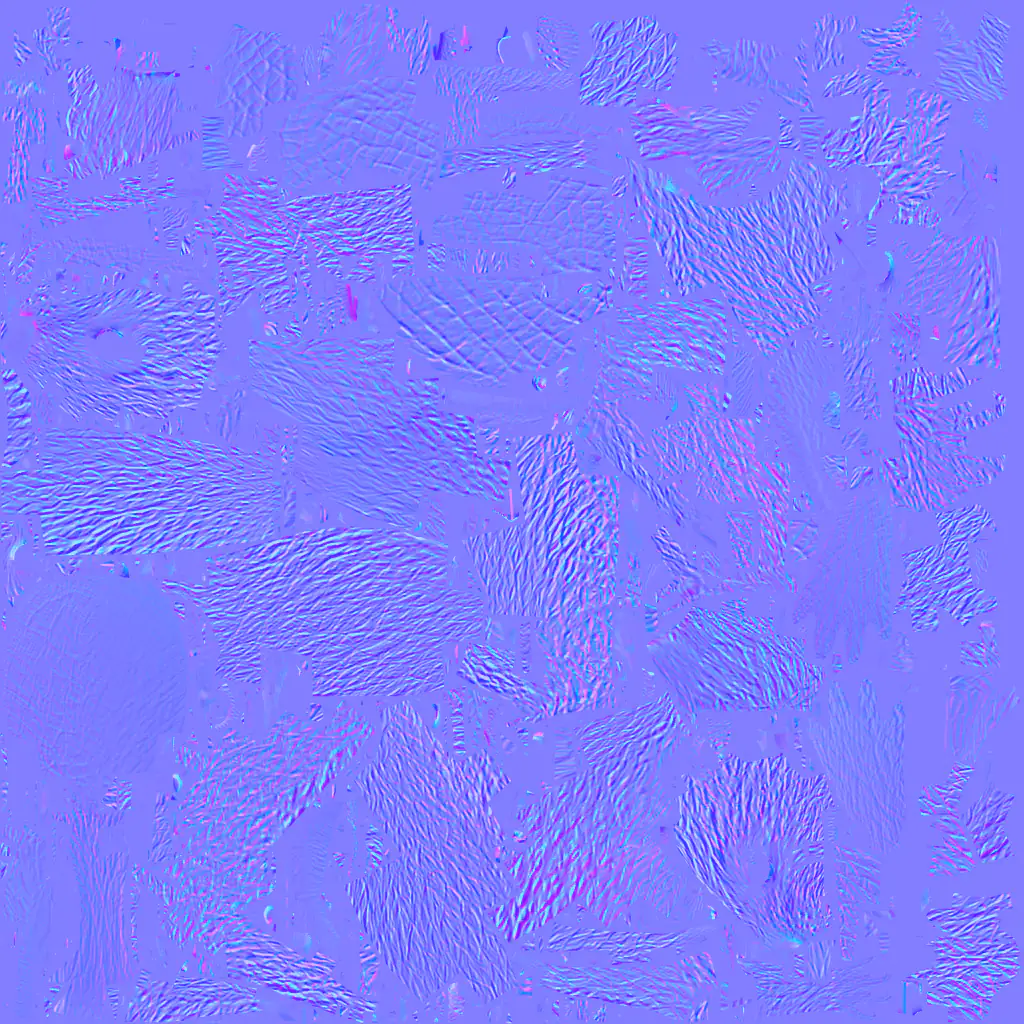
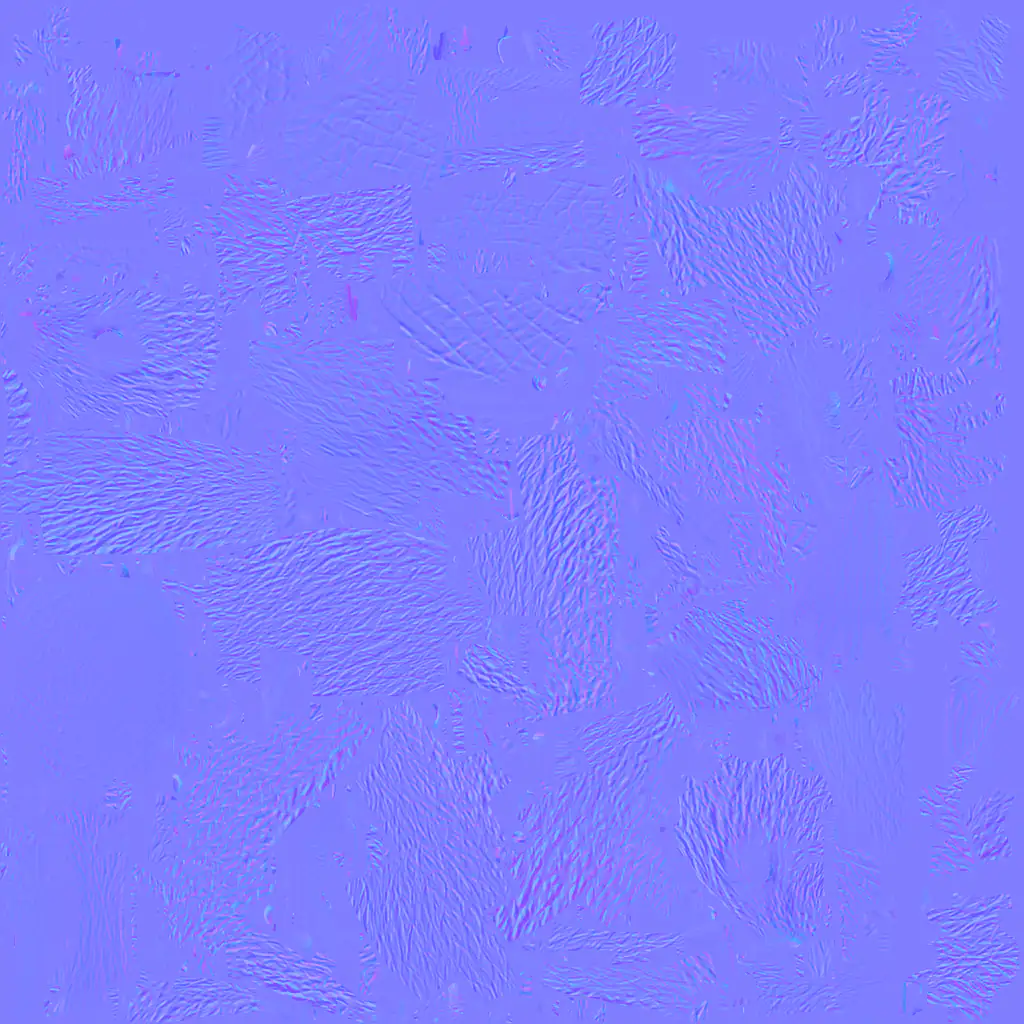
fix(tools): make the fur of the beaver softer
The beaver maps showed the full fine detail of the source, which read as
carved grooves in the hall light. The normal map now keeps 0.5 of the
source tilts (TILT_SHARE), and the color map keeps 0.7 of the detail
finer than a blur of 2 texels (DETAIL_SHARE). The colors stay.

diff --git a/tools/beaver-maps.py b/tools/beaver-maps.py
@@ -12,7 +12,7 @@ import sys
 import tempfile
 
 import numpy as np
-from PIL import Image
+from PIL import Image, ImageFilter
 
 SOURCE = 'assets/models/beaver/tripo-p2/beaver.fbm/beaver_basecolor.jpg'
 NORMAL_SOURCE = 'assets/models/beaver/tripo-p2/beaver.fbm/beaver_normal.jpg'
@@ -25,20 +25,31 @@ QUALITY = 60
 #: (`NORMAL_MAP_GAIN` of src/scene/fur.ts). A larger tilt is a baked edge of the source mesh.
 NORMAL_LIMIT = 0.2
 NORMAL_GAIN = 4
+#: The share of the fine detail of the source that the maps keep: the tilts of the normal map, and
+#: the color detail finer than DETAIL_RADIUS texels at SIZE. The full detail read as carved grooves
+#: in the hall light, so the fur is softer, as on the fox and the rabbit.
+TILT_SHARE = 0.5
+DETAIL_SHARE = 0.7
+DETAIL_RADIUS = 2.0
 
 
 def color_map():
-    """Writes the color map: the source scaled to SIZE (Lanczos), WebP quality QUALITY, method 6."""
+    """Writes the color map: the source scaled to SIZE (Lanczos), with DETAIL_SHARE of its detail
+    finer than DETAIL_RADIUS, WebP quality QUALITY, method 6."""
     image = Image.open(SOURCE).convert('RGB').resize((SIZE, SIZE), Image.LANCZOS)
+    sharp = np.asarray(image).astype(np.float64)
+    soft = np.asarray(image.filter(ImageFilter.GaussianBlur(DETAIL_RADIUS))).astype(np.float64)
+    mixed = soft + DETAIL_SHARE * (sharp - soft)
+    image = Image.fromarray(np.clip(np.round(mixed), 0, 255).astype(np.uint8))
     image.save(COLOR_OUT, 'WEBP', quality=QUALITY, method=6)
     print(f'{COLOR_OUT}: {SIZE} x {SIZE}, {os.path.getsize(COLOR_OUT)} bytes')
 
 
 def normal_map():
     """Writes the normal map of the fur: each x, y tilt of the source limited to the length
-    NORMAL_LIMIT, a box scale to NORMAL_SIZE, then the tilts times NORMAL_GAIN in red and green,
-    255 in blue (the shader does not read it), and cwebp -q 60 -sharp_yuv -m 6. The limit comes
-    before the gain, so that no stored value clips."""
+    NORMAL_LIMIT, a box scale to NORMAL_SIZE, then the tilts times TILT_SHARE and NORMAL_GAIN in
+    red and green, 255 in blue (the shader does not read it), and cwebp -q 60 -sharp_yuv -m 6. The
+    limit comes before the gain, so that no stored value clips."""
     a = np.asarray(Image.open(NORMAL_SOURCE).convert('RGB')).astype(np.float64) / 255 * 2 - 1
     t = a[..., :2].copy()
     length = np.linalg.norm(t, axis=-1)
@@ -46,7 +57,7 @@ def normal_map():
     t[over] *= (NORMAL_LIMIT / length[over])[:, None]
     k = t.shape[0] // NORMAL_SIZE
     small = t.reshape(NORMAL_SIZE, k, NORMAL_SIZE, k, 2).mean(axis=(1, 3))
-    v = np.clip(small * NORMAL_GAIN, -1, 1)
+    v = np.clip(small * TILT_SHARE * NORMAL_GAIN, -1, 1)
     rgb = np.zeros((NORMAL_SIZE, NORMAL_SIZE, 3), np.uint8)
     rgb[..., :2] = np.round((v + 1) / 2 * 255).astype(np.uint8)
     rgb[..., 2] = 255

diff --git a/assets/models/beaver/README.md b/assets/models/beaver/README.md
@@ -225,9 +225,11 @@ no cut, and no view shows it. The long joint passes beside the head, clear of th
 boot stays below and behind the music desk.
 
 **Maps** (`tools/beaver-maps.py`). The tool scales the color map of the source to 2048 pixels
-(Lanczos) and writes WebP quality 60, method 6 (Pillow 13.0.0). No texel changes its color. It
-writes `beaver-normal.webp` from the normal map of the FBX: each x, y tilt limited to 0.2 (5.85 %
-of the texels), a box scale to 1024 pixels, the tilts times 4 in red and green, 255 in blue, and
+(Lanczos), keeps 0.7 of its detail finer than a blur of 2 texels (`DETAIL_SHARE`), and writes
+WebP quality 60, method 6 (Pillow 13.0.0). Reason: the full detail read as carved grooves in the
+hall light. The colors stay. It writes `beaver-normal.webp` from the normal map of the FBX: each
+x, y tilt limited to 0.2 (5.85 % of the texels), a box scale to 1024 pixels, the tilts times 0.5
+(`TILT_SHARE`) and 4 in red and green, 255 in blue, and
 `cwebp -q 60 -sharp_yuv -m 6` (libwebp 1.5.0).
 
 **Differences from the source.** The app light is warm and comes from above, so the fur reads
@@ -240,5 +242,5 @@ The export of the file and the maps. License of each file: CC BY-NC 4.0, as the 
 |---|---|---|
[6 lines of base64/hex data omitted]
